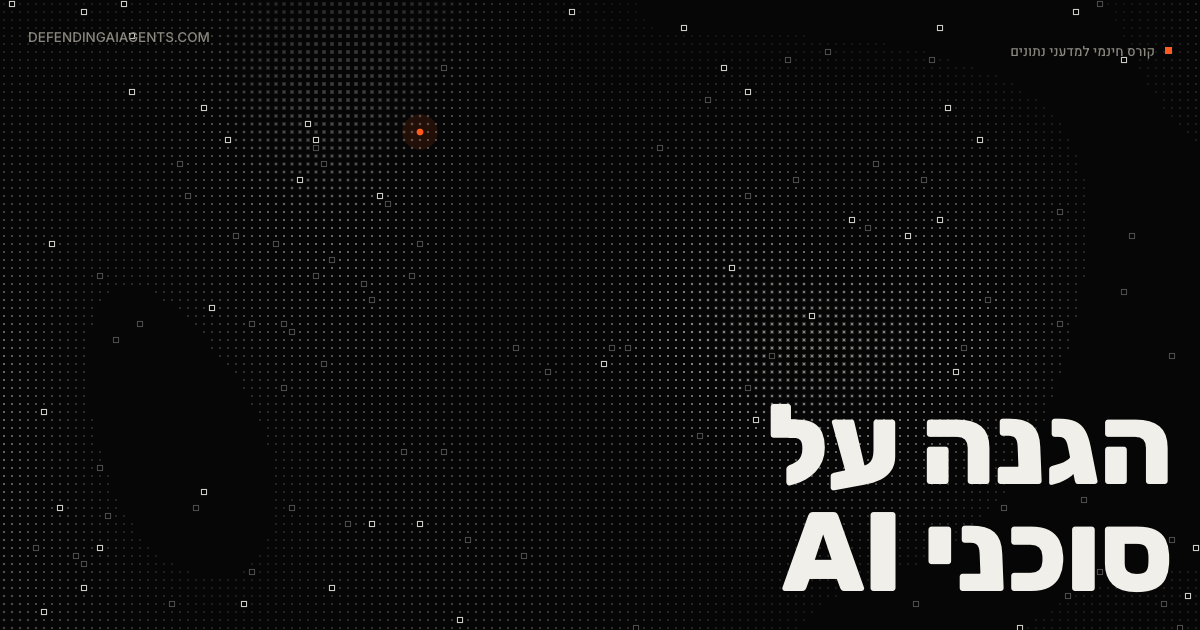
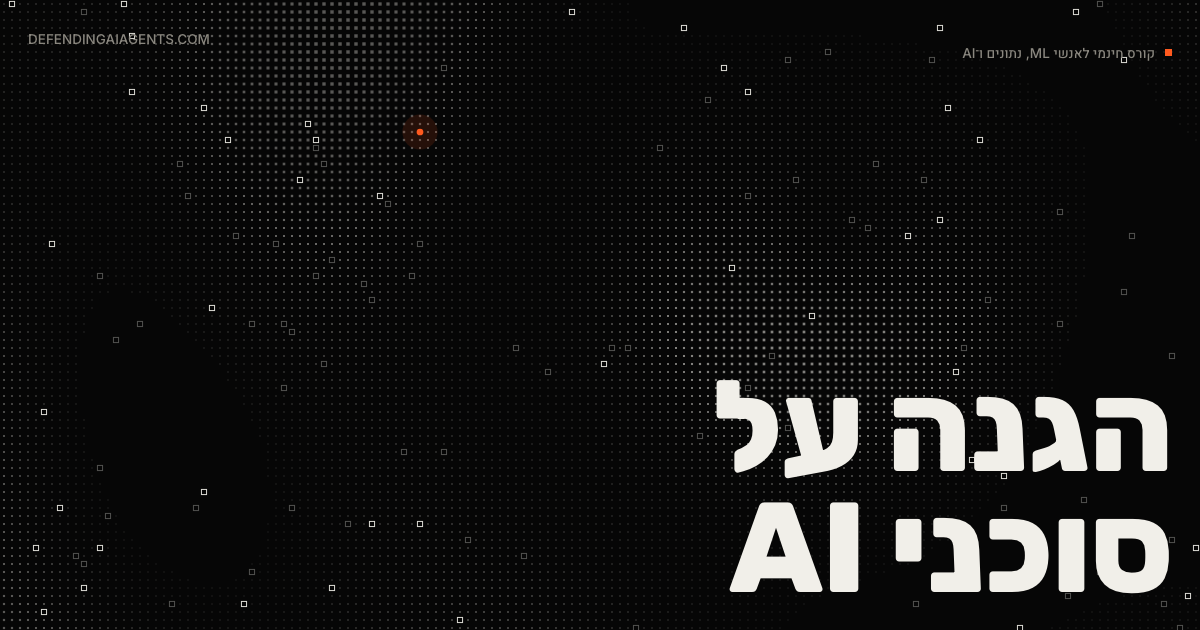
Curriculum: 22 modules and about 248 hours, modules 20 and 21 listed; regenerate og images with the new audience line (tools/og.html)

diff --git a/he/index.html b/he/index.html
@@ -69,7 +69,7 @@
 
   <section>
     <div class="sec-head reveal"><div class="label"><em>03</em>מה תבנו</div><div><h2>כל רכיב, בידיים שלכם.</h2><p>אף מוצר אבטחה, מסחרי או בקוד פתוח, אינו בשימוש בקורס ואינו נלמד בו. אתם בונים שער קטן לסוכנים בכלים פתוחים וכלליים, רכיב אחד בכל מודול.</p></div></div>
-    <ol class="build indent"><li class="reveal"><span class="label">M01</span><span>סוכן קטן שקורא לכלים, והמתקפה שמפילה אותו</span></li><li class="reveal"><span class="label">M03</span><span>שער שבודק כל קריאה לכלי לפני שהיא מתבצעת</span></li><li class="reveal"><span class="label">M04</span><span>גלאים להזרקת הנחיות: תבניות ומסווג מאומן</span></li><li class="reveal"><span class="label">M05</span><span>מאגר אחזור וזיכרון שמתעדים מאיפה הגיעה כל רשומה</span></li><li class="reveal"><span class="label">M06</span><span>מתקפת הסקת חברות, ופרסום נתונים בפרטיות דיפרנציאלית</span></li><li class="reveal"><span class="label">M07</span><span>ספים שנקבעים מתקציב התרעות שווא, עם רף ביטחון</span></li><li class="reveal"><span class="label">M08</span><span>מערך הערכה על נתונים בצורה של קריאות לכלים אמיתיות</span></li><li class="reveal"><span class="label">M09</span><span>מערך תקיפה יזומה ותוקף מסתגל, עם דוחות כנים</span></li><li class="reveal"><span class="label">M10</span><span>קווי בסיס התנהגותיים וגלאים סדרתיים</span></li><li class="reveal"><span class="label">M11</span><span>מעקב אחר מידע לא מהימן, וסוכן שתוכנן מחדש כך שטקסט מוזרק לא יכול לפעול</span></li><li class="reveal"><span class="label">M12</span><span>הרשאות קצרות וממוקדות, ארגז חול ומתג כיבוי</span></li><li class="reveal"><span class="label">M13</span><span>מנוע מדיניות שמאשר, דוחה, או מעכב לאישור אדם</span></li><li class="reveal"><span class="label">M14</span><span>בדיקת מודלים וכלים לפני שסומכים עליהם</span></li><li class="reveal"><span class="label">M15</span><span>זיהוי מידע אישי, השחרה ומחיקה</span></li><li class="reveal"><span class="label">M16</span><span>יומן חתום שחושף שינויים, הרצה חוזרת והערכה מנתונים קיימים</span></li><li class="reveal"><span class="label">M17</span><span>לומד מדיניות שתוקף סבלני לא יכול לאמן</span></li><li class="reveal"><span class="label">M18</span><span>נוהל טיפול באירוע, שנבדק על מתקפה מוקלטת</span></li></ol>
+    <ol class="build indent"><li class="reveal"><span class="label">M01</span><span>סוכן קטן שקורא לכלים, והמתקפה שמפילה אותו</span></li><li class="reveal"><span class="label">M03</span><span>שער שבודק כל קריאה לכלי לפני שהיא מתבצעת</span></li><li class="reveal"><span class="label">M04</span><span>גלאים להזרקת הנחיות: תבניות ומסווג מאומן</span></li><li class="reveal"><span class="label">M05</span><span>מאגר אחזור וזיכרון שמתעדים מאיפה הגיעה כל רשומה</span></li><li class="reveal"><span class="label">M06</span><span>מתקפת הסקת חברות, ופרסום נתונים בפרטיות דיפרנציאלית</span></li><li class="reveal"><span class="label">M07</span><span>ספים שנקבעים מתקציב התרעות שווא, עם רף ביטחון</span></li><li class="reveal"><span class="label">M08</span><span>מערך הערכה על נתונים בצורה של קריאות לכלים אמיתיות</span></li><li class="reveal"><span class="label">M09</span><span>מערך תקיפה יזומה ותוקף מסתגל, עם דוחות כנים</span></li><li class="reveal"><span class="label">M10</span><span>קווי בסיס התנהגותיים וגלאים סדרתיים</span></li><li class="reveal"><span class="label">M11</span><span>מעקב אחר מידע לא מהימן, וסוכן שתוכנן מחדש כך שטקסט מוזרק לא יכול לפעול</span></li><li class="reveal"><span class="label">M12</span><span>הרשאות קצרות וממוקדות, ארגז חול ומתג כיבוי</span></li><li class="reveal"><span class="label">M13</span><span>מנוע מדיניות שמאשר, דוחה, או מעכב לאישור אדם</span></li><li class="reveal"><span class="label">M14</span><span>בדיקת מודלים וכלים לפני שסומכים עליהם</span></li><li class="reveal"><span class="label">M15</span><span>זיהוי מידע אישי, השחרה ומחיקה</span></li><li class="reveal"><span class="label">M16</span><span>יומן חתום שחושף שינויים, הרצה חוזרת והערכה מנתונים קיימים</span></li><li class="reveal"><span class="label">M17</span><span>לומד מדיניות שתוקף סבלני לא יכול לאמן</span></li><li class="reveal"><span class="label">M18</span><span>נוהל טיפול באירוע, שנבדק על מתקפה מוקלטת</span></li><li class="reveal"><span class="label">M20</span><span>מלאי סוכנים שמקשר את הופעותיהם בין מקורות, ומעריך כמה אף מקור לא ראה</span></li><li class="reveal"><span class="label">M21</span><span>בקרה בנתיב הקריאה, שנמדדת להשהיה, לקיבולת ולכשל</span></li></ol>
   </section>
 
   <section>
@@ -78,8 +78,8 @@
   </section>
 
   <section id="curriculum">
-    <div class="sec-head reveal"><div class="label"><em>05</em>תוכנית הלימודים</div><div><h2>עשרים מודולים ופרויקט גמר.</h2><p>כל מודול מסתיים במדידה שאתם מפיקים ומגינים עליה, לא בעמוד שקראתם. כ־134 שעות, בקצב שלכם, בעברית ובאנגלית.</p></div></div>
-    <div class="parts"><article class="part reveal"><div class="label">I</div><h3>יסודות</h3><ol><li><span class="label">00</span><span>התמצאות: למה אבטחת סוכנים היא בעיה סטטיסטית</span></li><li><span class="label">01</span><span>הקמת המעבדה והסוכן שלכם</span></li><li><span class="label">02</span><span>יסודות אבטחת מידע לאנשי נתונים</span></li><li><span class="label">03</span><span>האנטומיה של סוכן ומשטח התקיפה שלו</span></li></ol></article><article class="part reveal"><div class="label">II</div><h3>מתקפות</h3><ol><li><span class="label">04</span><span>הזרקת הנחיות ופריצת מגבלות</span></li><li><span class="label">05</span><span>הרעלה, דלתות אחוריות וזיכרון של סוכנים</span></li><li><span class="label">06</span><span>מתקפות על פרטיות ופרטיות דיפרנציאלית</span></li></ol></article><article class="part reveal"><div class="label">III</div><h3>מדידה</h3><ol><li><span class="label">07</span><span>גלאים הם מסווגים: שיעורי בסיס, תקציבים ונקודות עבודה</span></li><li><span class="label">08</span><span>היגיינת הערכה ושינוי בהתפלגות</span></li><li><span class="label">09</span><span>עמידות מול יריב ותקיפה יזומה</span></li><li><span class="label">10</span><span>זיהוי חריגות בהתנהגות וברצפים</span></li></ol></article><article class="part reveal"><div class="label">IV</div><h3>אכיפה</h3><ol><li><span class="label">11</span><span>אבטחה כבר בתכנון: ארכיטקטורות שטקסט מוזרק לא יכול להטות</span></li><li><span class="label">12</span><span>זהות, הרשאה מינימלית ובידוד</span></li><li><span class="label">13</span><span>מציון להחלטה: מדיניות, עיכובים ובני אדם</span></li><li><span class="label">14</span><span>שרשרת האספקה: מודלים, חבילות וכלים</span></li><li><span class="label">15</span><span>הגנה על מידע: מידע אישי, השחרה ומחיקה</span></li></ol></article><article class="part reveal"><div class="label">V</div><h3>תפעול</h3><ol><li><span class="label">16</span><span>ראיות: יומני ביקורת, הרצה חוזרת והערכה קונטרפקטואלית</span></li><li><span class="label">17</span><span>למידת מדיניות מתעבורה, בבטחה</span></li><li><span class="label">18</span><span>ניטור וטיפול באירועים בסוכנים</span></li><li><span class="label">19</span><span>ממשל, ביקורת ורגולציה למהנדסים</span></li></ol></article></div>
+    <div class="sec-head reveal"><div class="label"><em>05</em>תוכנית הלימודים</div><div><h2>עשרים ושניים מודולים ופרויקט גמר.</h2><p>כל מודול מסתיים במדידה שאתם מפיקים ומגינים עליה, לא בעמוד שקראתם. כ־248 שעות, בקצב שלכם, בעברית ובאנגלית.</p></div></div>
+    <div class="parts"><article class="part reveal"><div class="label">I</div><h3>יסודות</h3><ol><li><span class="label">00</span><span>התמצאות: למה אבטחת סוכנים היא בעיה סטטיסטית</span></li><li><span class="label">01</span><span>הקמת המעבדה והסוכן שלכם</span></li><li><span class="label">02</span><span>יסודות אבטחת מידע לאנשי נתונים</span></li><li><span class="label">03</span><span>האנטומיה של סוכן ומשטח התקיפה שלו</span></li></ol></article><article class="part reveal"><div class="label">II</div><h3>מתקפות</h3><ol><li><span class="label">04</span><span>הזרקת הנחיות ופריצת מגבלות</span></li><li><span class="label">05</span><span>הרעלה, דלתות אחוריות וזיכרון של סוכנים</span></li><li><span class="label">06</span><span>מתקפות על פרטיות ופרטיות דיפרנציאלית</span></li></ol></article><article class="part reveal"><div class="label">III</div><h3>מדידה</h3><ol><li><span class="label">07</span><span>גלאים הם מסווגים: שיעורי בסיס, תקציבים ונקודות עבודה</span></li><li><span class="label">08</span><span>היגיינת הערכה ושינוי בהתפלגות</span></li><li><span class="label">09</span><span>עמידות מול יריב ותקיפה יזומה</span></li><li><span class="label">10</span><span>זיהוי חריגות בהתנהגות וברצפים</span></li></ol></article><article class="part reveal"><div class="label">IV</div><h3>אכיפה</h3><ol><li><span class="label">11</span><span>אבטחה כבר בתכנון: ארכיטקטורות שטקסט מוזרק לא יכול להטות</span></li><li><span class="label">12</span><span>זהות, הרשאה מינימלית ובידוד</span></li><li><span class="label">13</span><span>מציון להחלטה: מדיניות, עיכובים ובני אדם</span></li><li><span class="label">14</span><span>שרשרת האספקה: מודלים, חבילות וכלים</span></li><li><span class="label">15</span><span>הגנה על מידע: מידע אישי, השחרה ומחיקה</span></li></ol></article><article class="part reveal"><div class="label">V</div><h3>תפעול</h3><ol><li><span class="label">16</span><span>ראיות: יומני ביקורת, הרצה חוזרת והערכה קונטרפקטואלית</span></li><li><span class="label">17</span><span>למידת מדיניות מתעבורה, בבטחה</span></li><li><span class="label">18</span><span>ניטור וטיפול באירועים בסוכנים</span></li><li><span class="label">19</span><span>ממשל, ביקורת ורגולציה למהנדסים</span></li><li><span class="label">20</span><span>מציאת הסוכנים: גילוי, קישור וכיסוי</span></li><li><span class="label">21</span><span>הפעלת בקרה בנתיב הקריאה: השהיה, קיבולת וכשל</span></li></ol></article></div>
     <div class="capstone reveal"><span class="label">פרויקט גמר</span><strong>לבנות, ואז לשבור את של מישהו אחר.</strong><span class="d">תכנון ושער משלכם לתרחיש חדש, שנבחנים מול סדרת מתקפות סמויה; מסמך על קנה מידה; ודוח תקיפה יזומה על עבודה של משתתף אחר.</span></div>
   </section>
 

diff --git a/index.html b/index.html
@@ -69,7 +69,7 @@
 
   <section>
     <div class="sec-head reveal"><div class="label"><em>03</em>What you build</div><div><h2>Every component, with your own hands.</h2><p>No security product, commercial or open-source, is used or taught. You build a miniature agent gateway with general-purpose open tools, one component per module.</p></div></div>
-    <ol class="build indent"><li class="reveal"><span class="label">M01</span><span>A small tool-calling agent, and the attack that breaks it</span></li><li class="reveal"><span class="label">M03</span><span>A gateway that intercepts every tool call before it runs</span></li><li class="reveal"><span class="label">M04</span><span>Prompt-injection detectors: patterns and a fine-tuned classifier</span></li><li class="reveal"><span class="label">M05</span><span>A retrieval store and memory that record where every entry came from</span></li><li class="reveal"><span class="label">M06</span><span>A membership-inference attack, and a differentially private release</span></li><li class="reveal"><span class="label">M07</span><span>Thresholds set from a false-positive budget, with a confidence bound</span></li><li class="reveal"><span class="label">M08</span><span>An evaluation harness on data shaped like real tool calls</span></li><li class="reveal"><span class="label">M09</span><span>A red-team harness and an adaptive attacker, with honest reports</span></li><li class="reveal"><span class="label">M10</span><span>Behavioural baselines and sequential detectors</span></li><li class="reveal"><span class="label">M11</span><span>Taint tracking, and an agent redesigned so injected text cannot act</span></li><li class="reveal"><span class="label">M12</span><span>Short-lived scoped credentials, a sandbox and a kill switch</span></li><li class="reveal"><span class="label">M13</span><span>A policy engine that allows, refuses, or holds for a person</span></li><li class="reveal"><span class="label">M14</span><span>Model and tool checks before anything is trusted</span></li><li class="reveal"><span class="label">M15</span><span>Personal-data detection, redaction and erasure</span></li><li class="reveal"><span class="label">M16</span><span>A signed, tamper-evident log, replay, and off-policy estimates</span></li><li class="reveal"><span class="label">M17</span><span>A policy learner that a patient attacker cannot train</span></li><li class="reveal"><span class="label">M18</span><span>An incident runbook, tested on a recorded attack</span></li></ol>
+    <ol class="build indent"><li class="reveal"><span class="label">M01</span><span>A small tool-calling agent, and the attack that breaks it</span></li><li class="reveal"><span class="label">M03</span><span>A gateway that intercepts every tool call before it runs</span></li><li class="reveal"><span class="label">M04</span><span>Prompt-injection detectors: patterns and a fine-tuned classifier</span></li><li class="reveal"><span class="label">M05</span><span>A retrieval store and memory that record where every entry came from</span></li><li class="reveal"><span class="label">M06</span><span>A membership-inference attack, and a differentially private release</span></li><li class="reveal"><span class="label">M07</span><span>Thresholds set from a false-positive budget, with a confidence bound</span></li><li class="reveal"><span class="label">M08</span><span>An evaluation harness on data shaped like real tool calls</span></li><li class="reveal"><span class="label">M09</span><span>A red-team harness and an adaptive attacker, with honest reports</span></li><li class="reveal"><span class="label">M10</span><span>Behavioural baselines and sequential detectors</span></li><li class="reveal"><span class="label">M11</span><span>Taint tracking, and an agent redesigned so injected text cannot act</span></li><li class="reveal"><span class="label">M12</span><span>Short-lived scoped credentials, a sandbox and a kill switch</span></li><li class="reveal"><span class="label">M13</span><span>A policy engine that allows, refuses, or holds for a person</span></li><li class="reveal"><span class="label">M14</span><span>Model and tool checks before anything is trusted</span></li><li class="reveal"><span class="label">M15</span><span>Personal-data detection, redaction and erasure</span></li><li class="reveal"><span class="label">M16</span><span>A signed, tamper-evident log, replay, and off-policy estimates</span></li><li class="reveal"><span class="label">M17</span><span>A policy learner that a patient attacker cannot train</span></li><li class="reveal"><span class="label">M18</span><span>An incident runbook, tested on a recorded attack</span></li><li class="reveal"><span class="label">M20</span><span>An agent inventory that links appearances across sources and estimates how many no source has seen</span></li><li class="reveal"><span class="label">M21</span><span>An in-path control, measured for latency, capacity and failure</span></li></ol>
   </section>
 
   <section>
@@ -78,8 +78,8 @@
   </section>
 
   <section id="curriculum">
-    <div class="sec-head reveal"><div class="label"><em>05</em>Curriculum</div><div><h2>Twenty modules and a capstone.</h2><p>Each module ends at a measurement you produce and defend, not at a page you have read. About 134 hours, self-paced, in English and Hebrew.</p></div></div>
-    <div class="parts"><article class="part reveal"><div class="label">I</div><h3>Foundations</h3><ol><li><span class="label">00</span><span>Orientation: why agent security is a statistics problem</span></li><li><span class="label">01</span><span>Setting up your lab and your toy agent</span></li><li><span class="label">02</span><span>Security fundamentals for data people</span></li><li><span class="label">03</span><span>Anatomy of an agent and its attack surface</span></li></ol></article><article class="part reveal"><div class="label">II</div><h3>Attacks</h3><ol><li><span class="label">04</span><span>Prompt injection and jailbreaks</span></li><li><span class="label">05</span><span>Poisoning, backdoors and agent memory</span></li><li><span class="label">06</span><span>Privacy attacks and differential privacy</span></li></ol></article><article class="part reveal"><div class="label">III</div><h3>Measurement</h3><ol><li><span class="label">07</span><span>Detectors are classifiers: base rates, budgets, operating points</span></li><li><span class="label">08</span><span>Evaluation hygiene and distribution shift</span></li><li><span class="label">09</span><span>Adversarial robustness and red-teaming</span></li><li><span class="label">10</span><span>Behavioural and sequence anomaly detection</span></li></ol></article><article class="part reveal"><div class="label">IV</div><h3>Enforcement</h3><ol><li><span class="label">11</span><span>Secure by design: architectures injected text cannot steer</span></li><li><span class="label">12</span><span>Identity, least privilege and containment</span></li><li><span class="label">13</span><span>From score to decision: policy, holds and humans</span></li><li><span class="label">14</span><span>The supply chain: models, packages and tools</span></li><li><span class="label">15</span><span>Data protection: personal data, redaction, erasure</span></li></ol></article><article class="part reveal"><div class="label">V</div><h3>Operations</h3><ol><li><span class="label">16</span><span>Evidence: audit trails, replay and counterfactual evaluation</span></li><li><span class="label">17</span><span>Learning policy from traffic, safely</span></li><li><span class="label">18</span><span>Monitoring and incident response for agents</span></li><li><span class="label">19</span><span>Governance, audit and regulation for engineers</span></li></ol></article></div>
+    <div class="sec-head reveal"><div class="label"><em>05</em>Curriculum</div><div><h2>Twenty-two modules and a capstone.</h2><p>Each module ends at a measurement you produce and defend, not at a page you have read. About 248 hours, self-paced, in English and Hebrew.</p></div></div>
+    <div class="parts"><article class="part reveal"><div class="label">I</div><h3>Foundations</h3><ol><li><span class="label">00</span><span>Orientation: why agent security is a statistics problem</span></li><li><span class="label">01</span><span>Setting up your lab and your toy agent</span></li><li><span class="label">02</span><span>Security fundamentals for data people</span></li><li><span class="label">03</span><span>Anatomy of an agent and its attack surface</span></li></ol></article><article class="part reveal"><div class="label">II</div><h3>Attacks</h3><ol><li><span class="label">04</span><span>Prompt injection and jailbreaks</span></li><li><span class="label">05</span><span>Poisoning, backdoors and agent memory</span></li><li><span class="label">06</span><span>Privacy attacks and differential privacy</span></li></ol></article><article class="part reveal"><div class="label">III</div><h3>Measurement</h3><ol><li><span class="label">07</span><span>Detectors are classifiers: base rates, budgets, operating points</span></li><li><span class="label">08</span><span>Evaluation hygiene and distribution shift</span></li><li><span class="label">09</span><span>Adversarial robustness and red-teaming</span></li><li><span class="label">10</span><span>Behavioural and sequence anomaly detection</span></li></ol></article><article class="part reveal"><div class="label">IV</div><h3>Enforcement</h3><ol><li><span class="label">11</span><span>Secure by design: architectures injected text cannot steer</span></li><li><span class="label">12</span><span>Identity, least privilege and containment</span></li><li><span class="label">13</span><span>From score to decision: policy, holds and humans</span></li><li><span class="label">14</span><span>The supply chain: models, packages and tools</span></li><li><span class="label">15</span><span>Data protection: personal data, redaction, erasure</span></li></ol></article><article class="part reveal"><div class="label">V</div><h3>Operations</h3><ol><li><span class="label">16</span><span>Evidence: audit trails, replay and counterfactual evaluation</span></li><li><span class="label">17</span><span>Learning policy from traffic, safely</span></li><li><span class="label">18</span><span>Monitoring and incident response for agents</span></li><li><span class="label">19</span><span>Governance, audit and regulation for engineers</span></li><li><span class="label">20</span><span>Finding the agents: discovery, linkage and coverage</span></li><li><span class="label">21</span><span>Running an in-path control: latency, capacity and failure</span></li></ol></article></div>
     <div class="capstone reveal"><span class="label">Capstone</span><strong>Build it, then break someone else&#x27;s.</strong><span class="d">Your own design and gateway for a new scenario, run against a hidden attack suite; a scale memo; and a red-team report on another learner&#x27;s work.</span></div>
   </section>
 

diff --git a/tools/og.html b/tools/og.html
@@ -1,0 +1,30 @@
+<!doctype html>
+<!-- Social-preview image source. Render with headless Chrome (1200x630):
+  chrome --headless=new --window-size=1200,630 --virtual-time-budget=3000 --hide-scrollbars \
+    --screenshot=og.png "file://$PWD/tools/og.html?lang=en"      (and ?lang=he -> og-he.png) -->
+<meta charset="utf-8">
+<link rel="stylesheet" href="../assets/site.css">
+<style>
+  html, body { margin: 0; height: 630px; overflow: hidden; }
+  .hero { height: 630px; min-height: 0; }
+  .og-url { position: absolute; z-index: 2; top: 30px; inset-inline-end: 28px; margin: 0; }
+  .hero .kicker { top: 30px; }
+  .hero .word { grid-template-columns: 1fr; bottom: 20px; }
+  .hero h1 { font-size: 118px; }
+  :lang(he) .hero h1 { font-size: 128px; }
+</style>
+<body>
+<section class="hero" id="hero">
+  <canvas data-field></canvas>
+  <p class="kicker label"><i></i><span id="kicker"></span></p>
+  <p class="og-url label">defendingaiagents.com</p>
+  <div class="word"><h1 id="h1"></h1></div>
+</section>
+<script>
+  var he = new URLSearchParams(location.search).get("lang") === "he";
+  document.documentElement.lang = he ? "he" : "en";
+  document.documentElement.dir = he ? "rtl" : "ltr";
+  document.getElementById("kicker").textContent = he ? "קורס חינמי לאנשי ML, נתונים ו־AI" : "A free course for ML, data and AI practitioners";
+  document.getElementById("h1").innerHTML = he ? "<span>הגנה על</span><span>סוכני AI</span>" : "<span>Defending</span><span>AI agents</span>";
+</script>
+<script src="../assets/site.js"></script>

diff --git a/build.py b/build.py
@@ -109,6 +109,8 @@ EN = {
         ("16", "A signed, tamper-evident log, replay, and off-policy estimates"),
         ("17", "A policy learner that a patient attacker cannot train"),
         ("18", "An incident runbook, tested on a recorded attack"),
+        ("20", "An agent inventory that links appearances across sources and estimates how many no source has seen"),
+        ("21", "An in-path control, measured for latency, capacity and failure"),
     ],
 
     "s4": "Scale", "s4_h": "Build it small. Reason about it at scale.",
@@ -118,14 +120,14 @@ EN = {
         ("At 50 million calls a day: work it out", "500,000", "false alarms", "The same 1% error rate. At 30 seconds each, that is <strong>about 520 analysts</strong>, working full time, just to clear the false ones. You get there by calculation from your own measurements."),
     ],
 
-    "s5": "Curriculum", "s5_h": "Twenty modules and a capstone.",
-    "s5_p": "Each module ends at a measurement you produce and defend, not at a page you have read. About 134 hours, self-paced, in English and Hebrew.",
+    "s5": "Curriculum", "s5_h": "Twenty-two modules and a capstone.",
+    "s5_p": "Each module ends at a measurement you produce and defend, not at a page you have read. About 248 hours, self-paced, in English and Hebrew.",
     "parts": [
         ("I", "Foundations", [("00", "Orientation: why agent security is a statistics problem"), ("01", "Setting up your lab and your toy agent"), ("02", "Security fundamentals for data people"), ("03", "Anatomy of an agent and its attack surface")]),
         ("II", "Attacks", [("04", "Prompt injection and jailbreaks"), ("05", "Poisoning, backdoors and agent memory"), ("06", "Privacy attacks and differential privacy")]),
         ("III", "Measurement", [("07", "Detectors are classifiers: base rates, budgets, operating points"), ("08", "Evaluation hygiene and distribution shift"), ("09", "Adversarial robustness and red-teaming"), ("10", "Behavioural and sequence anomaly detection")]),
         ("IV", "Enforcement", [("11", "Secure by design: architectures injected text cannot steer"), ("12", "Identity, least privilege and containment"), ("13", "From score to decision: policy, holds and humans"), ("14", "The supply chain: models, packages and tools"), ("15", "Data protection: personal data, redaction, erasure")]),
-        ("V", "Operations", [("16", "Evidence: audit trails, replay and counterfactual evaluation"), ("17", "Learning policy from traffic, safely"), ("18", "Monitoring and incident response for agents"), ("19", "Governance, audit and regulation for engineers")]),
+        ("V", "Operations", [("16", "Evidence: audit trails, replay and counterfactual evaluation"), ("17", "Learning policy from traffic, safely"), ("18", "Monitoring and incident response for agents"), ("19", "Governance, audit and regulation for engineers"), ("20", "Finding the agents: discovery, linkage and coverage"), ("21", "Running an in-path control: latency, capacity and failure")]),
     ],
     "cap_label": "Capstone", "cap_h": "Build it, then break someone else's.",
     "cap_p": "Your own design and gateway for a new scenario, run against a hidden attack suite; a scale memo; and a red-team report on another learner's work.",
@@ -230,6 +232,8 @@ HE = {
         ("16", "יומן חתום שחושף שינויים, הרצה חוזרת והערכה מנתונים קיימים"),
         ("17", "לומד מדיניות שתוקף סבלני לא יכול לאמן"),
         ("18", "נוהל טיפול באירוע, שנבדק על מתקפה מוקלטת"),
+        ("20", "מלאי סוכנים שמקשר את הופעותיהם בין מקורות, ומעריך כמה אף מקור לא ראה"),
+        ("21", "בקרה בנתיב הקריאה, שנמדדת להשהיה, לקיבולת ולכשל"),
     ],
 
     "s4": "קנה מידה", "s4_h": "בונים בקטן. חושבים בגדול.",
@@ -239,14 +243,14 @@ HE = {
         ("ב־50 מיליון קריאות ביום: מחשבים", "500,000", "התרעות שווא", "אותו שיעור שגיאה של 1%. ב־30 שניות להתרעה, זה <strong>כ־520 אנליסטים</strong> במשרה מלאה, רק כדי לסגור את השגויות. מגיעים לזה בחישוב, מתוך המדידות שלכם."),
     ],
 
-    "s5": "תוכנית הלימודים", "s5_h": "עשרים מודולים ופרויקט גמר.",
-    "s5_p": "כל מודול מסתיים במדידה שאתם מפיקים ומגינים עליה, לא בעמוד שקראתם. כ־134 שעות, בקצב שלכם, בעברית ובאנגלית.",
+    "s5": "תוכנית הלימודים", "s5_h": "עשרים ושניים מודולים ופרויקט גמר.",
+    "s5_p": "כל מודול מסתיים במדידה שאתם מפיקים ומגינים עליה, לא בעמוד שקראתם. כ־248 שעות, בקצב שלכם, בעברית ובאנגלית.",
     "parts": [
         ("I", "יסודות", [("00", "התמצאות: למה אבטחת סוכנים היא בעיה סטטיסטית"), ("01", "הקמת המעבדה והסוכן שלכם"), ("02", "יסודות אבטחת מידע לאנשי נתונים"), ("03", "האנטומיה של סוכן ומשטח התקיפה שלו")]),
         ("II", "מתקפות", [("04", "הזרקת הנחיות ופריצת מגבלות"), ("05", "הרעלה, דלתות אחוריות וזיכרון של סוכנים"), ("06", "מתקפות על פרטיות ופרטיות דיפרנציאלית")]),
         ("III", "מדידה", [("07", "גלאים הם מסווגים: שיעורי בסיס, תקציבים ונקודות עבודה"), ("08", "היגיינת הערכה ושינוי בהתפלגות"), ("09", "עמידות מול יריב ותקיפה יזומה"), ("10", "זיהוי חריגות בהתנהגות וברצפים")]),
         ("IV", "אכיפה", [("11", "אבטחה כבר בתכנון: ארכיטקטורות שטקסט מוזרק לא יכול להטות"), ("12", "זהות, הרשאה מינימלית ובידוד"), ("13", "מציון להחלטה: מדיניות, עיכובים ובני אדם"), ("14", "שרשרת האספקה: מודלים, חבילות וכלים"), ("15", "הגנה על מידע: מידע אישי, השחרה ומחיקה")]),
-        ("V", "תפעול", [("16", "ראיות: יומני ביקורת, הרצה חוזרת והערכה קונטרפקטואלית"), ("17", "למידת מדיניות מתעבורה, בבטחה"), ("18", "ניטור וטיפול באירועים בסוכנים"), ("19", "ממשל, ביקורת ורגולציה למהנדסים")]),
+        ("V", "תפעול", [("16", "ראיות: יומני ביקורת, הרצה חוזרת והערכה קונטרפקטואלית"), ("17", "למידת מדיניות מתעבורה, בבטחה"), ("18", "ניטור וטיפול באירועים בסוכנים"), ("19", "ממשל, ביקורת ורגולציה למהנדסים"), ("20", "מציאת הסוכנים: גילוי, קישור וכיסוי"), ("21", "הפעלת בקרה בנתיב הקריאה: השהיה, קיבולת וכשל")]),
     ],
     "cap_label": "פרויקט גמר", "cap_h": "לבנות, ואז לשבור את של מישהו אחר.",
     "cap_p": "תכנון ושער משלכם לתרחיש חדש, שנבחנים מול סדרת מתקפות סמויה; מסמך על קנה מידה; ודוח תקיפה יזומה על עבודה של משתתף אחר.",
